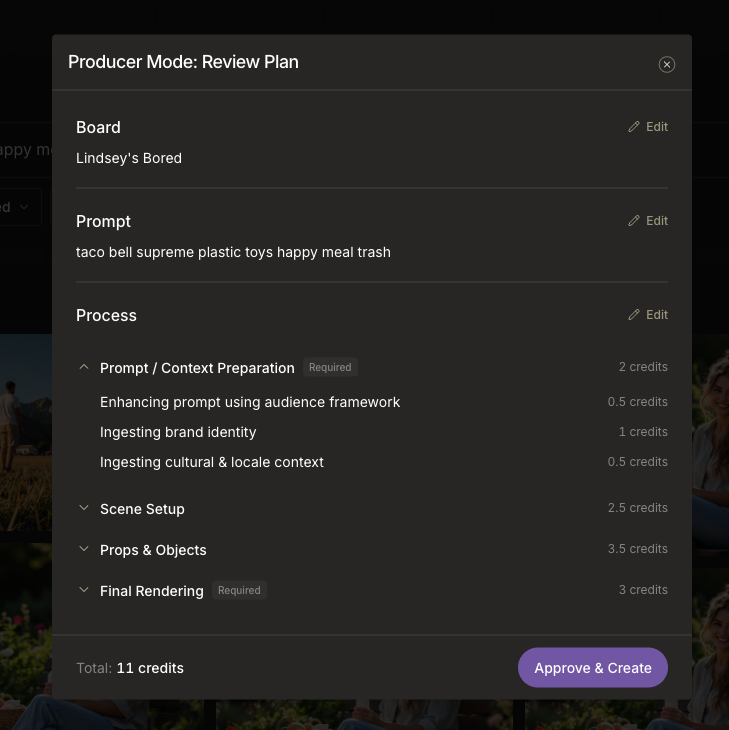
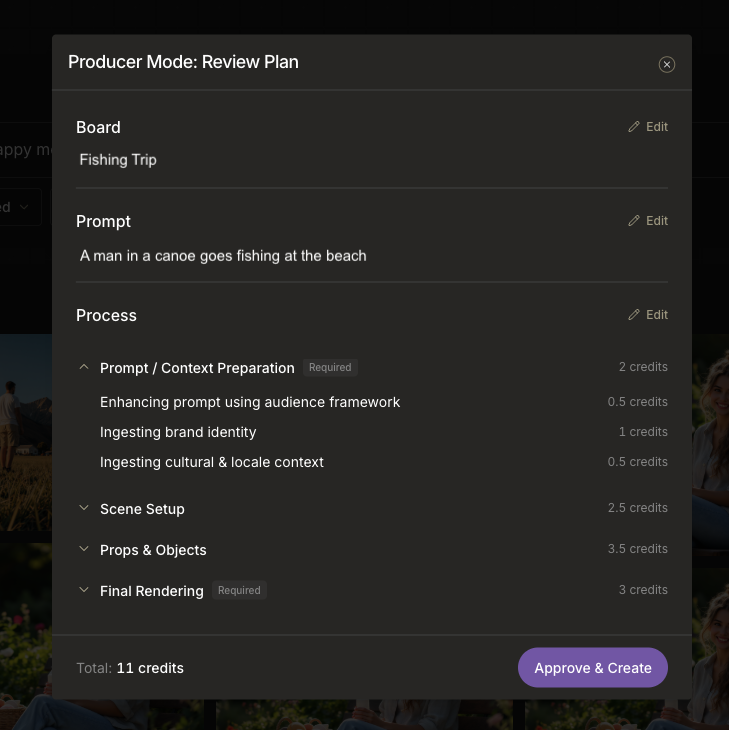
good

Changed region(s): [[0.0905, 0.3315, 0.5432, 0.3616], [0.0905, 0.211, 0.2414, 0.2411]]

diff --git a/slides.md b/slides.md
@@ -233,8 +233,25 @@ As you can see from this very long dropdown, there are a tonne of model choices 
 
 # Moodboards
 
-Trying to devic
 
+<!--
+Trying to describe an image to a diffusion model is kind of like those police sketches where you have to describe the features that you want them to draw and they do their best to interpret it
+-->
+<div class="flex flex-row gap-4">
+  <figure>
+    <img src="./assets/police-sketch.avif" class="h-80" />
+    <figcaption><a class="text-xs" href="https://www.independent.co.uk/news/weird-news/worst-police-sketch-ever-police-hunt-oddly-spherical-man-9075276.html">The Independent: Worst police sketch ever? Police hunt oddly spherical man
+  </a></figcaption>
+  </figure>
+  <figure>
+  <p v-click.hide="1" class="absolute">
+  This is kind of how I think about describing an image to an image generation model. <br/><br/>Sure, you try to remember the features, but who knows if you forgot some important details?
+  <br/><br/>The details really matter.
+  </p>
+    <img v-click="1" src="./assets/t2-have-you-seen.jpg" />
+    <figcaption  v-click="1"  class="text-xs">Waynes World</figcaption>
+  </figure>
+</div>
 ---
 
 <center>
@@ -278,13 +295,13 @@ transition: none
 ---
 
 
-<h1 class="uppercase">There is a problem <br/> here though</h1>
+<h1 class="uppercase "><span class="!text-green">There is a problem <br/> here though</span></h1>
 
 ---
 
 
 
-<p class="!mb-4 text-sm font-bold tracking-[0.16em] text-violet-300 uppercase">OUR CUSTOMERS DON'T WANT TO SELL MY AI-GENERATED BOOTS</p>
+<p class="!mb-4 text-sm font-bold tracking-[0.16em] text-green uppercase">OUR CUSTOMERS DON'T WANT TO SELL MY AI-GENERATED BOOTS</p>
 
 
 
@@ -325,45 +342,37 @@ Along with a INSPIRATION image of loch ness
 -->
 
 
+
 ---
 
+# GETTING RID OF THE BLACK BOX
 
-<center>
-<img src="./assets/prompt-fishing.png" class="h-120"/>
+<center class="flex flex-row gap-4">
+  <img v-click.hide="1" src="./assets/prompt-fishing.png" class="absolute h80"/>
+  <img v-click.hide="2" v-click="1" src="./assets/approve.png" class="h-100"/>
+  <img v-click="2" src="./assets/placeholder.png" class="h-100"/>
 </center>
 
 <!--
+And finally to get rid of the black box, the first thing we're going to do is show the
+customers the image generation plan before we even start (and potentially allow them to change it) and secondly as the the images are generating, 
 
-Then I can go type my prompt, select my mooboard and here's where things get interesting.
-
--->
----
-
-
-<center>
-<img src="./assets/modal.png" class="h-120"/>
-</center>
-
-<!--
-Instead of sending the request to a black box and getting a single output, instead we're showing the user their progress every step of the way.
-
-In this image you can even see the enhanced that got generated.
 -->
 
 ---
 
+# GETTING RID OF THE BLACK BOX
+
 <center>
-<img src="./assets/product-insertion.png" class="h-120"/>
+  <img v-click.hide="1" v-click="2" src="./assets/product-insertion.png" class="left-36 absolute h-100"/>  <img v-click.hide="1" src="./assets/modal.png" class="left-36 absolute h-100"/>
+  <img v-click="1" src="./assets/modal-2.png" class="h-100"/>
+
 </center>
 
+
 <!--
-And as we start inserting the products into the base image, we'll do an automated realism evaluation and we'll also show the user every image that gets generated along the way.
+NOTE: MAYBE DO A BETTER JOB HERE
 -->
-
-
----
-
-### Human in the Loop Placeholder Slide
 
 ---
 
